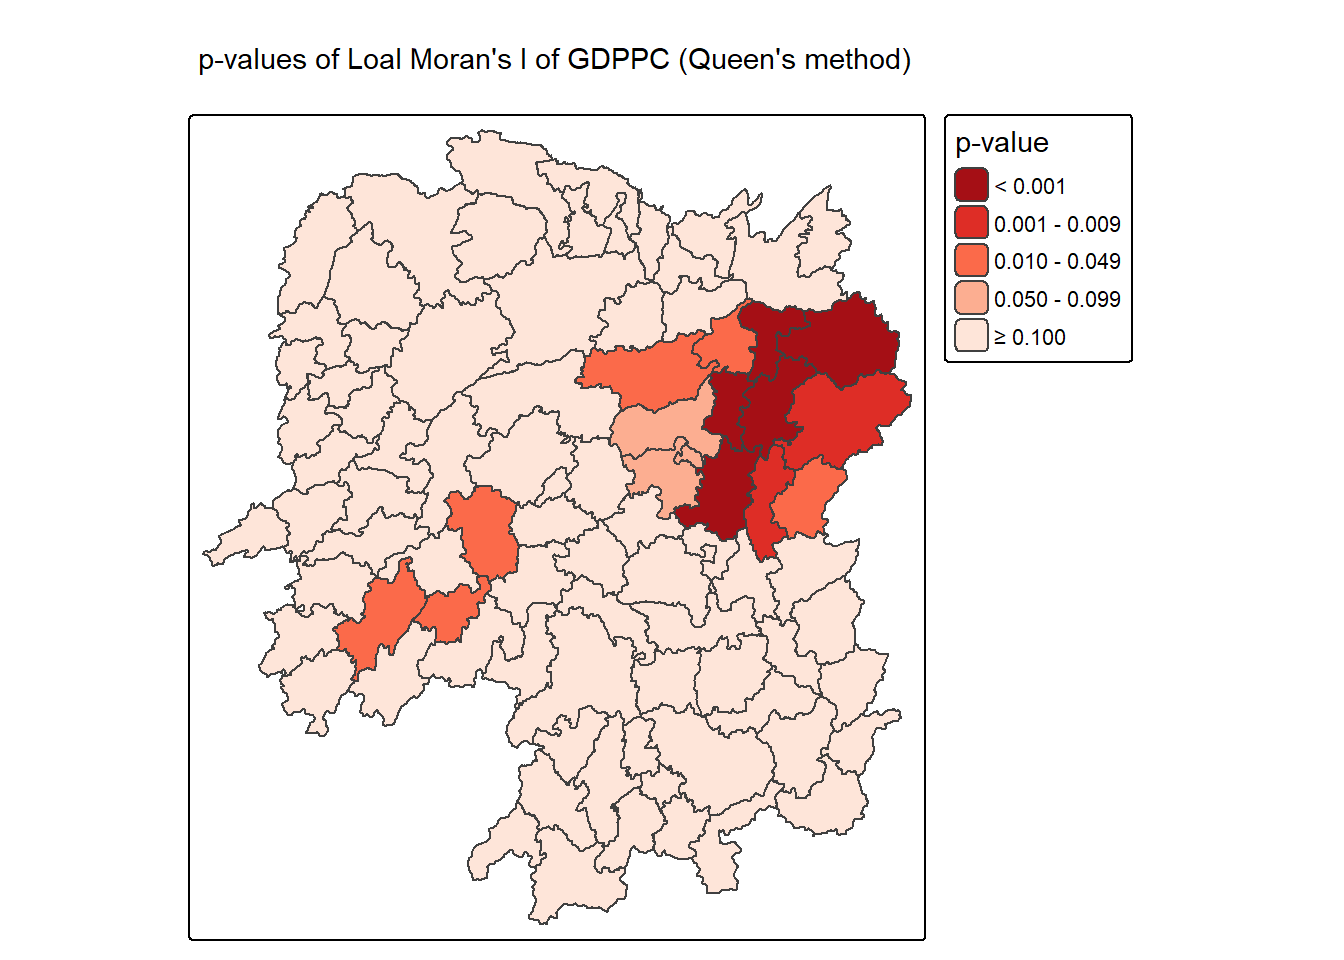
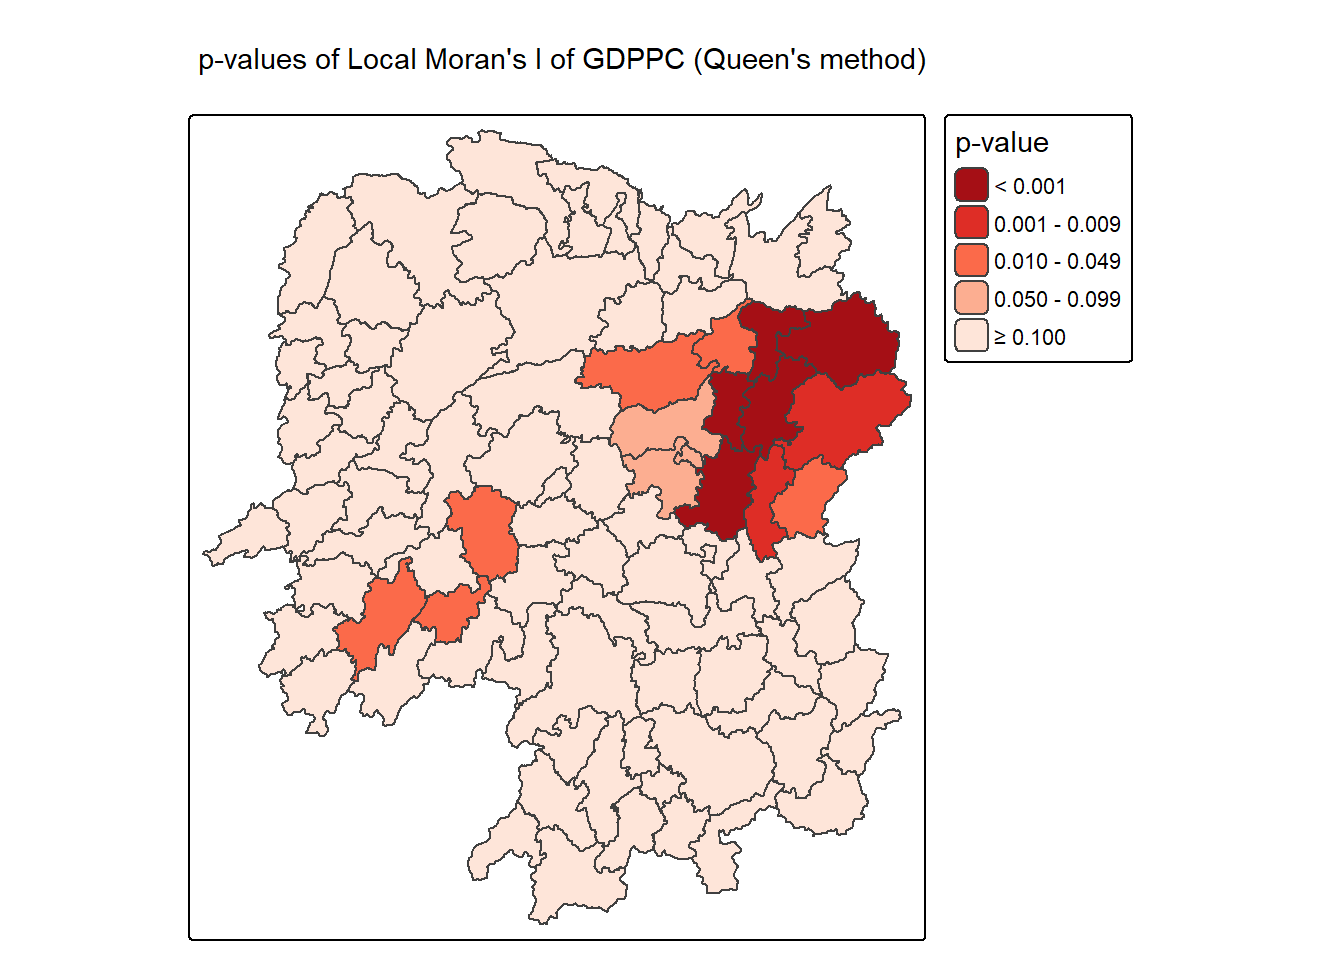
Commit 8

Changed region(s): [[0.2812, 0.0312, 0.6875, 0.0938]]

diff --git a/Hands-on_Ex5b/Hands-on_Ex5b.html b/Hands-on_Ex5b/Hands-on_Ex5b.html
@@ -232,9 +232,9 @@ pre > code.sourceCode > span > a:first-child::before { text-decoration: underlin
   <li><a href="#row-standardised-weights-matrix" id="toc-row-standardised-weights-matrix" class="nav-link" data-scroll-target="#row-standardised-weights-matrix"><strong>Row-standardised Weights Matrix</strong></a></li>
   <li><a href="#computing-local-morans-i" id="toc-computing-local-morans-i" class="nav-link" data-scroll-target="#computing-local-morans-i"><strong>Computing Local Moran’s I</strong></a></li>
   <li><a href="#mapping-the-local-morans-i" id="toc-mapping-the-local-morans-i" class="nav-link" data-scroll-target="#mapping-the-local-morans-i"><strong>Mapping the Local Moran’s I</strong></a></li>
-  <li><a href="#mapping-local-morans-i-values" id="toc-mapping-local-morans-i-values" class="nav-link" data-scroll-target="#mapping-local-morans-i-values">Mapping local Moran’s I values</a></li>
-  <li><a href="#mapping-local-morans-i-p-values" id="toc-mapping-local-morans-i-p-values" class="nav-link" data-scroll-target="#mapping-local-morans-i-p-values">Mapping local Moran’s I p-values</a></li>
-  <li><a href="#mapping-both-local-morans-i-values-and-p-values" id="toc-mapping-both-local-morans-i-values-and-p-values" class="nav-link" data-scroll-target="#mapping-both-local-morans-i-values-and-p-values"><strong>Mapping both local Moran’s I values and p-values</strong></a></li>
+  <li><a href="#mapping-local-morans-i-values" id="toc-mapping-local-morans-i-values" class="nav-link" data-scroll-target="#mapping-local-morans-i-values">Mapping Local Moran’s I values</a></li>
+  <li><a href="#mapping-local-morans-i-p-values" id="toc-mapping-local-morans-i-p-values" class="nav-link" data-scroll-target="#mapping-local-morans-i-p-values">Mapping Local Moran’s I p-values</a></li>
+  <li><a href="#mapping-both-local-morans-i-values-and-p-values" id="toc-mapping-both-local-morans-i-values-and-p-values" class="nav-link" data-scroll-target="#mapping-both-local-morans-i-values-and-p-values"><strong>Mapping both Local Moran’s I values and p-values</strong></a></li>
   <li><a href="#preparing-and-visualising-lisa-map" id="toc-preparing-and-visualising-lisa-map" class="nav-link" data-scroll-target="#preparing-and-visualising-lisa-map"><strong>Preparing and Visualising LISA Map</strong></a></li>
   <li><a href="#plotting-moran-scatterplot" id="toc-plotting-moran-scatterplot" class="nav-link" data-scroll-target="#plotting-moran-scatterplot">Plotting Moran Scatterplot</a></li>
   <li><a href="#plotting-moran-scatterplot-with-standardised-variable" id="toc-plotting-moran-scatterplot-with-standardised-variable" class="nav-link" data-scroll-target="#plotting-moran-scatterplot-with-standardised-variable"><strong>Plotting Moran Scatterplot with Standardised Variable</strong></a></li>
@@ -586,7 +586,7 @@ $ geometry     &lt;POLYGON [m]&gt; POLYGON ((22320.48 3301894,..., POLYGON ((355
 <h3 class="anchored" data-anchor-id="mapping-the-local-morans-i"><strong>Mapping the Local Moran’s I</strong></h3>
 </section>
 <section id="mapping-local-morans-i-values" class="level3">
-<h3 class="anchored" data-anchor-id="mapping-local-morans-i-values">Mapping local Moran’s I values</h3>
+<h3 class="anchored" data-anchor-id="mapping-local-morans-i-values">Mapping Local Moran’s I values</h3>
 <p>Using choropleth mapping functions of tmap package, we can plot the local Moran’s I values by using the code chinks below.</p>
 <div class="cell">
 <div class="code-copy-outer-scaffold"><div class="sourceCode cell-code" id="cb14"><pre class="sourceCode r code-with-copy"><code class="sourceCode r"><span id="cb14-1"><a href="#cb14-1" aria-hidden="true" tabindex="-1"></a><span class="fu">tm_shape</span>(lisa) <span class="sc">+</span> </span>
@@ -599,7 +599,7 @@ $ geometry     &lt;POLYGON [m]&gt; POLYGON ((22320.48 3301894,..., POLYGON ((355
 <span id="cb14-8"><a href="#cb14-8" aria-hidden="true" tabindex="-1"></a>                <span class="at">title =</span> <span class="st">"Local Moran's I"</span>, </span>
 <span id="cb14-9"><a href="#cb14-9" aria-hidden="true" tabindex="-1"></a>                <span class="at">position =</span> <span class="fu">tm_pos_out</span>())) <span class="sc">+</span> </span>
 <span id="cb14-10"><a href="#cb14-10" aria-hidden="true" tabindex="-1"></a>  <span class="fu">tm_borders</span>(<span class="at">fill_alpha =</span> <span class="fl">0.5</span>) <span class="sc">+</span> </span>
-<span id="cb14-11"><a href="#cb14-11" aria-hidden="true" tabindex="-1"></a>  <span class="fu">tm_title</span>(<span class="st">"Local Morans'I of GDPPC (Queen's method)"</span>)</span></code></pre></div><button title="Copy to Clipboard" class="code-copy-button"><i class="bi"></i></button></div>
+<span id="cb14-11"><a href="#cb14-11" aria-hidden="true" tabindex="-1"></a>  <span class="fu">tm_title</span>(<span class="st">"Local Moran's I of GDPPC (Queen's method)"</span>)</span></code></pre></div><button title="Copy to Clipboard" class="code-copy-button"><i class="bi"></i></button></div>
 <div class="cell-output-display">
 <div>
 <figure class="figure">
@@ -610,7 +610,7 @@ $ geometry     &lt;POLYGON [m]&gt; POLYGON ((22320.48 3301894,..., POLYGON ((355
 </div>
 </section>
 <section id="mapping-local-morans-i-p-values" class="level3">
-<h3 class="anchored" data-anchor-id="mapping-local-morans-i-p-values">Mapping local Moran’s I p-values</h3>
+<h3 class="anchored" data-anchor-id="mapping-local-morans-i-p-values">Mapping Local Moran’s I p-values</h3>
 <p>The choropleth shows there is evidence for both positive and negative Ii values. However, it is useful to consider the p-values for each of these values, as consider above.</p>
 <p>The code chunks below produce a choropleth map of Moran’s I p-values by using functions of <strong>tmap</strong> package.</p>
 <div class="cell">
@@ -623,7 +623,7 @@ $ geometry     &lt;POLYGON [m]&gt; POLYGON ((22320.48 3301894,..., POLYGON ((355
 <span id="cb15-7"><a href="#cb15-7" aria-hidden="true" tabindex="-1"></a>                <span class="at">title =</span> <span class="st">"p-value"</span>, </span>
 <span id="cb15-8"><a href="#cb15-8" aria-hidden="true" tabindex="-1"></a>      <span class="at">position =</span> <span class="fu">tm_pos_out</span>())) <span class="sc">+</span> </span>
 <span id="cb15-9"><a href="#cb15-9" aria-hidden="true" tabindex="-1"></a>  <span class="fu">tm_borders</span>(<span class="at">fill_alpha =</span> <span class="fl">0.5</span>) <span class="sc">+</span> </span>
-<span id="cb15-10"><a href="#cb15-10" aria-hidden="true" tabindex="-1"></a>  <span class="fu">tm_title</span>(<span class="st">"p-values of Loal Moran's I of GDPPC (Queen's method)"</span>)</span></code></pre></div><button title="Copy to Clipboard" class="code-copy-button"><i class="bi"></i></button></div>
+<span id="cb15-10"><a href="#cb15-10" aria-hidden="true" tabindex="-1"></a>  <span class="fu">tm_title</span>(<span class="st">"p-values of Local Moran's I of GDPPC (Queen's method)"</span>)</span></code></pre></div><button title="Copy to Clipboard" class="code-copy-button"><i class="bi"></i></button></div>
 <div class="cell-output-display">
 <div>
 <figure class="figure">
@@ -634,7 +634,7 @@ $ geometry     &lt;POLYGON [m]&gt; POLYGON ((22320.48 3301894,..., POLYGON ((355
 </div>
 </section>
 <section id="mapping-both-local-morans-i-values-and-p-values" class="level3">
-<h3 class="anchored" data-anchor-id="mapping-both-local-morans-i-values-and-p-values"><strong>Mapping both local Moran’s I values and p-values</strong></h3>
+<h3 class="anchored" data-anchor-id="mapping-both-local-morans-i-values-and-p-values"><strong>Mapping both Local Moran’s I values and p-values</strong></h3>
 <p>For effective interpretation, it is better to plot both the local Moran’s I values map and its corresponding p-values map next to each other.</p>
 <p>The code chunk below will be used to create such visualisation.</p>
 <div class="cell">
@@ -649,7 +649,7 @@ $ geometry     &lt;POLYGON [m]&gt; POLYGON ((22320.48 3301894,..., POLYGON ((355
 <span id="cb16-9"><a href="#cb16-9" aria-hidden="true" tabindex="-1"></a>                <span class="at">position =</span> <span class="fu">tm_pos_in</span>( </span>
 <span id="cb16-10"><a href="#cb16-10" aria-hidden="true" tabindex="-1"></a>                  <span class="st">"left"</span>, <span class="st">"bottom"</span>))) <span class="sc">+</span> </span>
 <span id="cb16-11"><a href="#cb16-11" aria-hidden="true" tabindex="-1"></a>  <span class="fu">tm_borders</span>(<span class="at">fill_alpha =</span> <span class="fl">0.5</span>) <span class="sc">+</span> </span>
-<span id="cb16-12"><a href="#cb16-12" aria-hidden="true" tabindex="-1"></a>  <span class="fu">tm_title</span>(<span class="st">"Loal Moran's I of GDPPC (Queen's method)"</span>)</span>
+<span id="cb16-12"><a href="#cb16-12" aria-hidden="true" tabindex="-1"></a>  <span class="fu">tm_title</span>(<span class="st">"Local Moran's I of GDPPC (Queen's method)"</span>)</span>
 <span id="cb16-13"><a href="#cb16-13" aria-hidden="true" tabindex="-1"></a></span>
 <span id="cb16-14"><a href="#cb16-14" aria-hidden="true" tabindex="-1"></a>p_ii.map <span class="ot">&lt;-</span> <span class="fu">tm_shape</span>(lisa) <span class="sc">+</span> </span>
 <span id="cb16-15"><a href="#cb16-15" aria-hidden="true" tabindex="-1"></a>  <span class="fu">tm_polygons</span>(<span class="at">fill =</span> <span class="st">"p_ii"</span>, </span>
@@ -661,7 +661,7 @@ $ geometry     &lt;POLYGON [m]&gt; POLYGON ((22320.48 3301894,..., POLYGON ((355
 <span id="cb16-21"><a href="#cb16-21" aria-hidden="true" tabindex="-1"></a>      <span class="at">position =</span> <span class="fu">tm_pos_in</span>(<span class="st">"left"</span>, <span class="st">"bottom"</span>) </span>
 <span id="cb16-22"><a href="#cb16-22" aria-hidden="true" tabindex="-1"></a>    )) <span class="sc">+</span> </span>
 <span id="cb16-23"><a href="#cb16-23" aria-hidden="true" tabindex="-1"></a>  <span class="fu">tm_borders</span>(<span class="at">fill_alpha =</span> <span class="fl">0.5</span>) <span class="sc">+</span> </span>
-<span id="cb16-24"><a href="#cb16-24" aria-hidden="true" tabindex="-1"></a>  <span class="fu">tm_title</span>(<span class="st">"p-values of Loal Moran's I of GDPPC (Queen's method)"</span>)</span>
+<span id="cb16-24"><a href="#cb16-24" aria-hidden="true" tabindex="-1"></a>  <span class="fu">tm_title</span>(<span class="st">"p-values of Local Moran's I of GDPPC (Queen's method)"</span>)</span>
 <span id="cb16-25"><a href="#cb16-25" aria-hidden="true" tabindex="-1"></a></span>
 <span id="cb16-26"><a href="#cb16-26" aria-hidden="true" tabindex="-1"></a><span class="fu">tmap_arrange</span>(ii.map, p_ii.map, <span class="at">asp=</span><span class="dv">1</span>, <span class="at">ncol=</span><span class="dv">2</span>)</span></code></pre></div><button title="Copy to Clipboard" class="code-copy-button"><i class="bi"></i></button></div>
 <div class="cell-output-display">
@@ -873,7 +873,7 @@ Note
 <span id="cb25-8"><a href="#cb25-8" aria-hidden="true" tabindex="-1"></a>                <span class="at">title =</span> <span class="st">"Local Moran's I"</span>, </span>
 <span id="cb25-9"><a href="#cb25-9" aria-hidden="true" tabindex="-1"></a>                <span class="at">position =</span> <span class="fu">tm_pos_out</span>())) <span class="sc">+</span> </span>
 <span id="cb25-10"><a href="#cb25-10" aria-hidden="true" tabindex="-1"></a>  <span class="fu">tm_borders</span>(<span class="at">fill_alpha =</span> <span class="fl">0.5</span>) <span class="sc">+</span> </span>
-<span id="cb25-11"><a href="#cb25-11" aria-hidden="true" tabindex="-1"></a>  <span class="fu">tm_title</span>(<span class="st">"Local Morans'I of GDPPC (Queen's method)"</span>)</span></code></pre></div><button title="Copy to Clipboard" class="code-copy-button"><i class="bi"></i></button></div>
+<span id="cb25-11"><a href="#cb25-11" aria-hidden="true" tabindex="-1"></a>  <span class="fu">tm_title</span>(<span class="st">"Local Moran's I of GDPPC (Queen's method)"</span>)</span></code></pre></div><button title="Copy to Clipboard" class="code-copy-button"><i class="bi"></i></button></div>
 <div class="cell-output-display">
 <div>
 <figure class="figure">
@@ -919,7 +919,7 @@ Note
 </figure>
 </div>
 </div>
-<div class="code-copy-outer-scaffold"><div class="sourceCode cell-code" id="cb27"><pre class="sourceCode r code-with-copy"><code class="sourceCode r"><span id="cb27-1"><a href="#cb27-1" aria-hidden="true" tabindex="-1"></a><span class="fu">tmap_arrange</span>(equal, quantile, <span class="at">asp =</span> <span class="dv">1</span>, <span class="at">ncol =</span> <span class="dv">2</span>)</span></code></pre></div><button title="Copy to Clipboard" class="code-copy-button"><i class="bi"></i></button></div>
+<div class="code-copy-outer-scaffold"><div class="sourceCode cell-code" id="cb27"><pre class="sourceCode r code-with-copy"><code class="sourceCode r"><span id="cb27-1"><a href="#cb27-1" aria-hidden="true" tabindex="-1"></a><span class="fu">tmap_arrange</span>(ii.map, lisa_map, <span class="at">asp =</span> <span class="dv">1</span>, <span class="at">ncol =</span> <span class="dv">2</span>)</span></code></pre></div><button title="Copy to Clipboard" class="code-copy-button"><i class="bi"></i></button></div>
 <div class="cell-output-display">
 <div>
 <figure class="figure">
